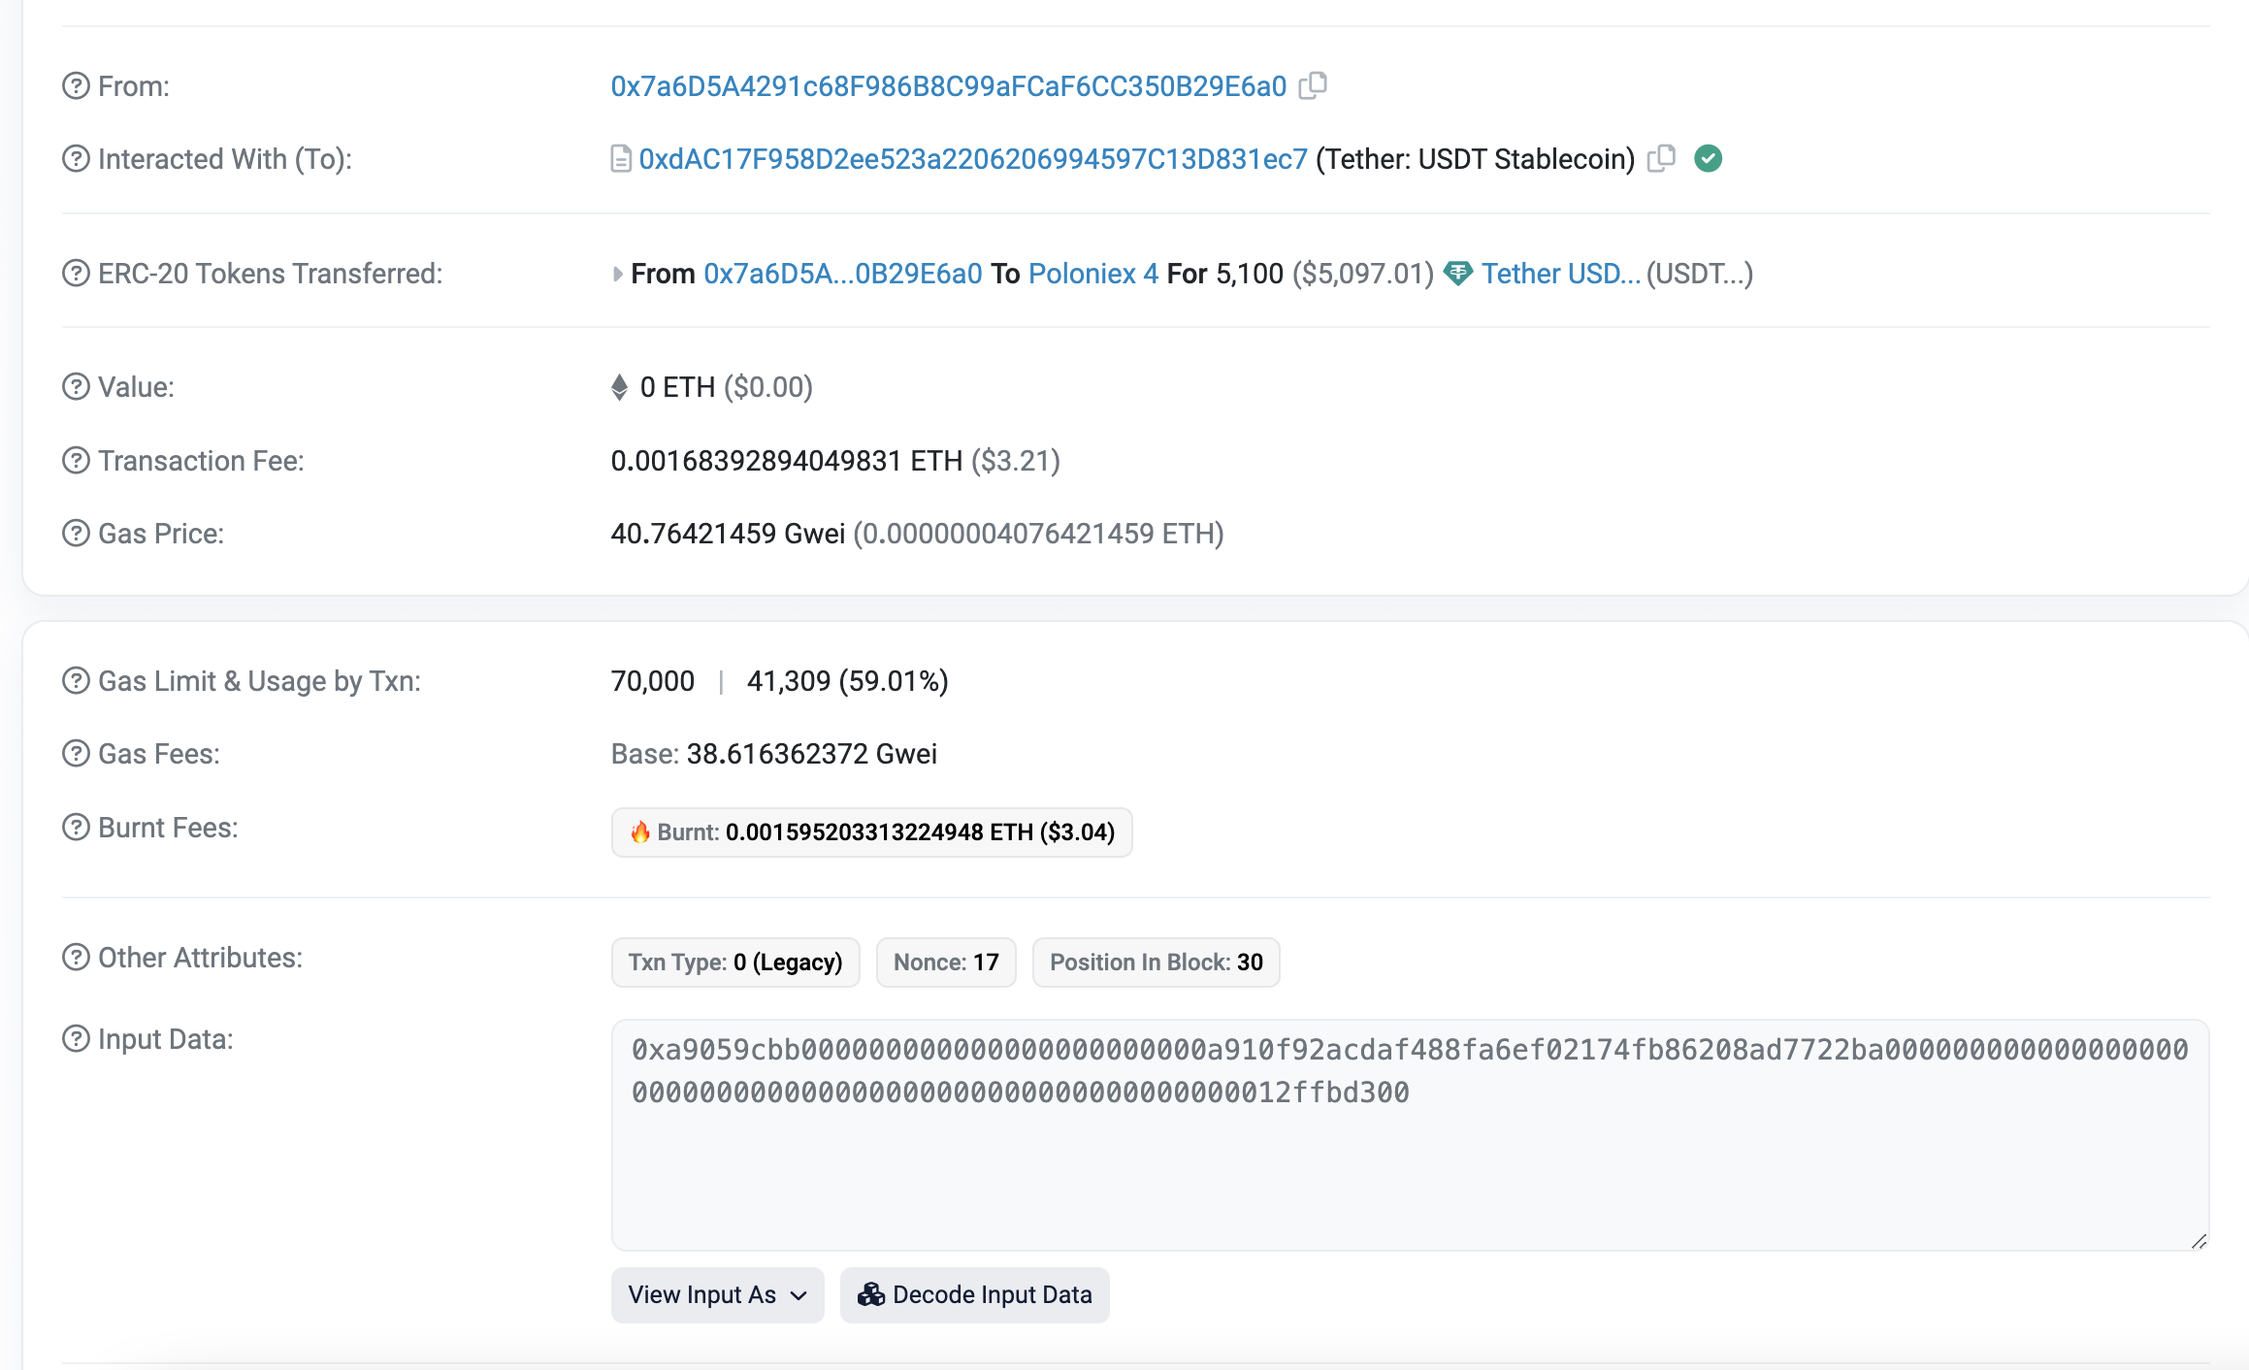
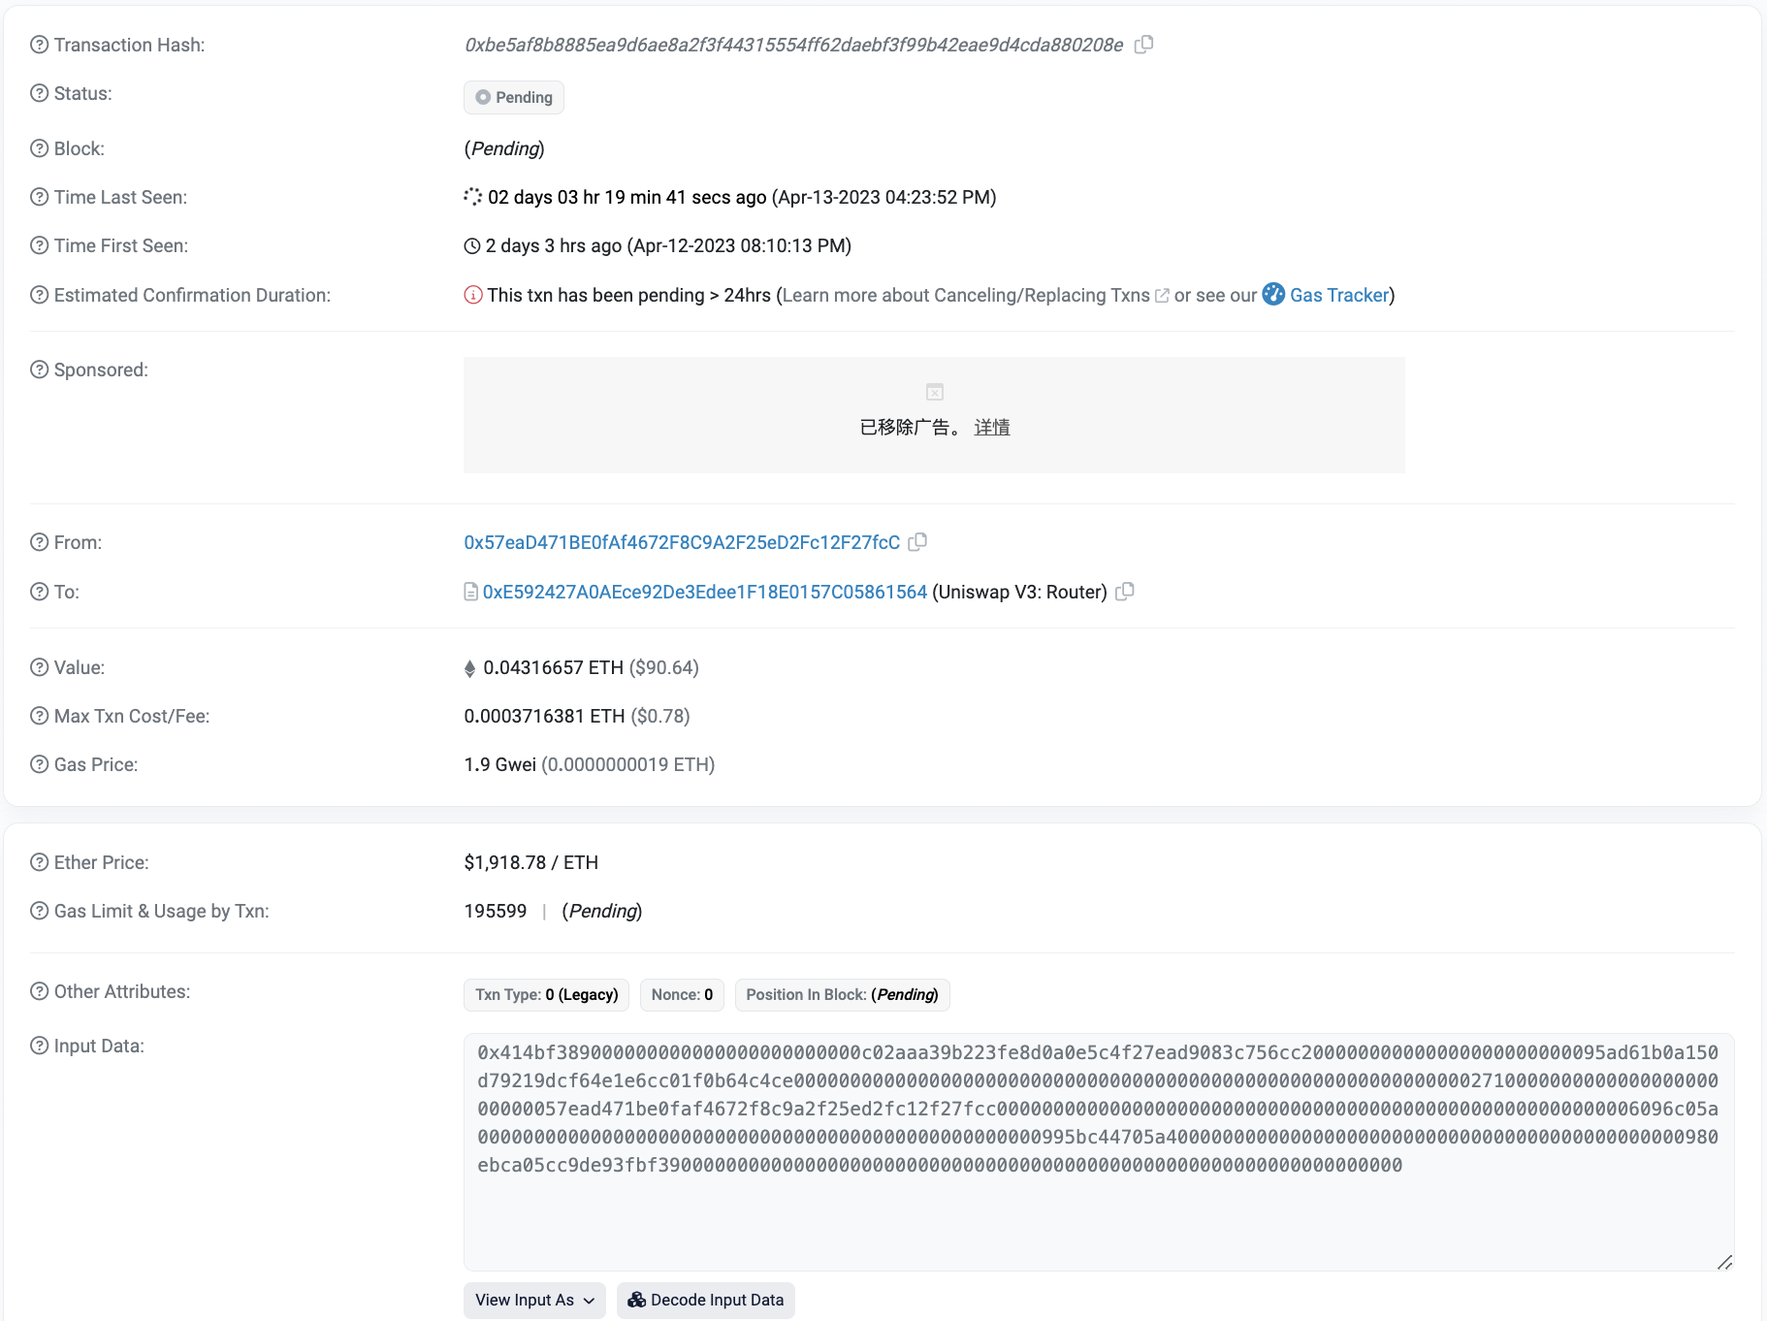
Update 20-24 ether.js

diff --git a/20_DecodeTx/DecodeTx.js b/20_DecodeTx/DecodeTx.js
@@ -28,7 +28,7 @@ function throttle(fn, delay) {
 }
 
 const main = async () => {
-    // 4. 监听pending的erc20 transfer交易，获取交易详情，然后解码。
+    // 4. 监听pending的uniswapV3交易，获取交易详情，然后解码。
     console.log("\n4. 监听pending交易，获取txHash，并输出交易详情。")
     provider.on("pending", throttle(async (txHash) => {
         if (txHash) {

diff --git a/21_VanityAddress/VanityAddress.js b/21_VanityAddress/VanityAddress.js
@@ -19,4 +19,3 @@ console.log(`\n靓号地址：${wallet.address}`)
 console.log(`靓号私钥：${wallet.privateKey}\n`)
 
 
-

diff --git a/20_DecodeTx/readme.md b/20_DecodeTx/readme.md
@@ -8,9 +8,9 @@ title: 20. 解码交易详情
 
 **推特**：[@0xAA_Science](https://twitter.com/0xAA_Science)
 
-**WTF Academy社群：** [官网 wtf.academy](https://wtf.academy) | [WTF Solidity教程](https://github.com/AmazingAng/WTFSolidity) | [discord](https://discord.gg/5akcruXrsk) | [微信群申请](https://docs.google.com/forms/d/e/1FAIpQLSe4KGT8Sh6sJ7hedQRuIYirOoZK_85miz3dw7vA1-YjodgJ-A/viewform?usp=sf_link)
+**WTF Academy社群：** [官网 wtf.academy](https://wtf.academy) | [WTF Solidity教程](https://github.com/AmazingAng/WTF-Solidity) | [discord](https://discord.gg/5akcruXrsk) | [微信群申请](https://docs.google.com/forms/d/e/1FAIpQLSe4KGT8Sh6sJ7hedQRuIYirOoZK_85miz3dw7vA1-YjodgJ-A/viewform?usp=sf_link)
 
-所有代码和教程开源在github: [github.com/WTFAcademy/WTFEthers](https://github.com/WTFAcademy/WTFEthers)
+所有代码和教程开源在github: [github.com/WTFAcademy/WTFEthers](https://github.com/WTFAcademy/WTF-Ethers)
 
 -----
 
@@ -18,28 +18,50 @@ title: 20. 解码交易详情
 
 ## 未决交易
 
-未决交易是用户发出但没被矿工打包上链的交易，在mempool（交易内存池）中出现。对于`mempool`的更多介绍可以看[WTF Ethers极简教程第19讲：监听Mempool](https://github.com/WTFAcademy/WTFEthers/blob/main/19_Mempool/readme.md)
+未决交易是用户发出但没被矿工打包上链的交易，在mempool（交易内存池）中出现。对于`mempool`的更多介绍可以看[WTF Ethers极简教程第19讲：监听Mempool](https://github.com/WTFAcademy/WTF-Ethers/blob/main/19_Mempool/readme.md)
 
-下面是一个转账`ERC20`代币的交易，你可以在[etherscan](https://etherscan.io/tx/0x694e5a2bf12caeee012455f8cd5fb760a8e3804f7f97874e00e7ba0fcd9a1609)上查看交易详情：
+下面是一个利用`Uniswap V3 Router`合约交易代币的未决交易，你可以在[etherscan](https://etherscan.io/tx/0xbe5af8b8885ea9d6ae8a2f3f44315554ff62daebf3f99b42eae9d4cda880208e)上查看交易详情：
 
-![ERC20转账交易](./img/20-1.png)
+![未决交易](./img/20-1.png)
 
 红框中是这个交易的`input data`，看似杂乱无章的十六进制数据，实际上编码了这笔交易的内容：包括调用的函数，以及输入的参数。我们在etherscan点击**Decode Input Data**按钮，就可以解码这段数据：
 
 ![Decode Input Data](./img/20-2.png)
 
-解码之后，我们可以看到这笔交易调用的函数以及输入的参数。
+解码之后，我们可以看到这笔交易调用了合约中的`exactInputSingle()`函数（`Uniswap V3`路由合约中的一个交易函数）以及输入的参数。
 
 ## Interface类
 
 `ethers.js`提供了`Interface`类方便解码交易数据。声明`Interface`类型和声明`abi`的方法差不多，例如：
 
 ```js
-const iface = ethers.Interface([
+const iface = ethers.utils.Interface([
     "function balanceOf(address) public view returns(uint)",
     "function transfer(address, uint) public returns (bool)",
     "function approve(address, uint256) public returns (bool)"
 ]);
+```
+
+如果输入参数是`solidity`的`struct`结构体类型时，我们要做特殊处理，在`javascript`中改为`tuple`元组类型。上面的`exactInputSingle()`函数的参数为`ExactInputSingleParams`结构体：
+```solidity
+    struct ExactInputSingleParams {
+        address tokenIn;
+        address tokenOut;
+        uint24 fee;
+        address recipient;
+        uint256 deadline;
+        uint256 amountIn;
+        uint256 amountOutMinimum;
+        uint160 sqrtPriceLimitX96;
+    }
+```
+
+在`js`中我们要写为：
+
+```js
+const iface = new utils.Interface([
+    "function exactInputSingle(tuple(address tokenIn, address tokenOut, uint24 fee, address recipient, uint deadline, uint amountIn, uint amountOutMinimum, uint160 sqrtPriceLimitX96) calldata) external payable returns (uint amountOut)",
+])
 ```
 
 ## 解码交易数据
@@ -49,9 +71,9 @@ const iface = ethers.Interface([
 1. 创建`provider`和`wallet`，监听交易时候推荐用`wss`连接而不是`http`。
 
     ```js
-    // 准备 alchemy API 可以参考https://github.com/AmazingAng/WTFSolidity/blob/main/Topics/Tools/TOOL04_Alchemy/readme.md 
+    // 准备 alchemy API 可以参考https://github.com/AmazingAng/WTF-Solidity/blob/main/Topics/Tools/TOOL04_Alchemy/readme.md 
     const ALCHEMY_MAINNET_WSSURL = 'wss://eth-mainnet.g.alchemy.com/v2/oKmOQKbneVkxgHZfibs-iFhIlIAl6HDN';
-    const provider = new ethers.WebSocketProvider(ALCHEMY_MAINNET_WSSURL);
+    const provider = new ethers.providers.WebSocketProvider(ALCHEMY_MAINNET_WSSURL);
     let network = provider.getNetwork()
     network.then(res => console.log(`[${(new Date).toLocaleTimeString()}] 连接到 chain ID ${res.chainId}`));
     ```
@@ -59,8 +81,8 @@ const iface = ethers.Interface([
 2. 创建`Interface`对象，用于解码交易详情。
 
     ```js
-    const iface = new ethers.Interface([
-    "function transfer(address, uint) public returns (bool)",
+    const iface = new utils.Interface([
+        "function exactInputSingle(tuple(address tokenIn, address tokenOut, uint24 fee, address recipient, uint deadline, uint amountIn, uint amountOutMinimum, uint160 sqrtPriceLimitX96) calldata) external payable returns (uint amountOut)",
     ])
     ```
 
@@ -81,7 +103,7 @@ const iface = ethers.Interface([
     }
     ```
 
-4. 监听`pending`的`ERC20` 转账交易，获取交易详情并解码：
+4. 监听`pending`的`uniswapV3`交易，获取交易详情并解码。这里只解码了通过`Uniswap V3`路由合约的`exactInputSingle()`函数的交易。网络不活跃的时候，可能需要等待几分钟才能监听到一笔。
 
     ```js
     provider.on("pending", throttle(async (txHash) => {
@@ -90,7 +112,7 @@ const iface = ethers.Interface([
             let tx = await provider.getTransaction(txHash);
             if (tx) {
                 // filter pendingTx.data
-                if (tx.data.indexOf(iface.getFunction("transfer").selector) !== -1) {
+                if (tx.data.indexOf(iface.getSighash("exactInputSingle")) !== -1) {
                     // 打印txHash
                     console.log(`\n[${(new Date).toLocaleTimeString()}] 监听Pending交易: ${txHash} \r`);
 

diff --git a/24_ERC20Check/readme.md b/24_ERC20Check/readme.md
@@ -10,7 +10,7 @@ title: 24. 识别ERC20合约
 
 WTF Academy 社群：[Discord](https://discord.gg/5akcruXrsk)｜[微信群](https://docs.google.com/forms/d/e/1FAIpQLSe4KGT8Sh6sJ7hedQRuIYirOoZK_85miz3dw7vA1-YjodgJ-A/viewform?usp=sf_link)｜[官网 wtf.academy](https://wtf.academy)
 
-所有代码和教程开源在 github: [github.com/WTFAcademy/WTFEthers](https://github.com/WTFAcademy/WTFEthers)
+所有代码和教程开源在 github: [github.com/WTFAcademy/WTFEthers](https://github.com/WTFAcademy/WTF-Ethers)
 
 ---
 
@@ -18,7 +18,7 @@ WTF Academy 社群：[Discord](https://discord.gg/5akcruXrsk)｜[微信群](http
 
 ## `ERC20`
 
-`ERC721` 是以太坊上最常用的代币标准，如果对这个标准不熟悉，可以阅读[WTF Solidity第31讲 ERC20](https://github.com/AmazingAng/WTFSolidity/blob/main/31_ERC20/readme.md)。`ERC20` 标准包含以下函数和事件:
+`ERC721` 是以太坊上最常用的代币标准，如果对这个标准不熟悉，可以阅读[WTF Solidity第31讲 ERC20](https://github.com/AmazingAng/WTF-Solidity/blob/main/31_ERC20/readme.md)。`ERC20` 标准包含以下函数和事件:
 ```solidity
 interface IERC20 {
     event Transfer(address indexed from, address indexed to, uint256 value);
@@ -40,7 +40,7 @@ interface IERC20 {
 ```
 
 ## 识别 `ERC20` 合约
-在之前的[教程](https://github.com/WTFAcademy/WTFEthers/blob/main/12_ERC721Check/readme.md)中，我们讲了如何基于 `ERC165` 识别 `ERC721` 合约。但是由于 `ERC20` 的发布早于 `ERC165`（20 < 165），因此我们没法用相同的办法识别 `ERC20` 合约，只能另找办法。
+在之前的[教程](https://github.com/WTFAcademy/WTF-Ethers/blob/main/12_ERC721Check/readme.md)中，我们讲了如何基于 `ERC165` 识别 `ERC721` 合约。但是由于 `ERC20` 的发布早于 `ERC165`（20 < 165），因此我们没法用相同的办法识别 `ERC20` 合约，只能另找办法。
 
 区块链是公开的，我们能获取任意合约地址上的代码（bytecode）。因此，我们可以先获取合约代码，然后对比其是否包含 `ERC20` 标准中的函数就可以了。
 
@@ -49,7 +49,7 @@ interface IERC20 {
 let code = await provider.getCode(contractAddress)
 ```
 
-接下来我们要检查合约 `bytecode` 是否包含 `ERC20` 标准中的函数。合约 `bytecode` 中存储了相应的[函数选择器]：如果合约包含 `transfer(address, uint256)` 函数，那么 `bytecode` 就会包含 `a9059cbb`；如果合约包含 `balanceOf(address)`，那么 `bytecode` 就会包含 `18160ddd`。如果你不了解函数选择器，可以阅读 WTF Solidity的[相应章节](https://github.com/AmazingAng/WTFSolidity/blob/main/29_Selector/readme.md)。如果想更深入的了解 `bytecode`，可以阅读[深入EVM](https://github.com/AmazingAng/WTFSolidity/blob/main/Topics/Translation/DiveEVM2017)。
+接下来我们要检查合约 `bytecode` 是否包含 `ERC20` 标准中的函数。合约 `bytecode` 中存储了相应的[函数选择器]：如果合约包含 `transfer(address, uint256)` 函数，那么 `bytecode` 就会包含 `a9059cbb`；如果合约包含 `balanceOf(address)`，那么 `bytecode` 就会包含 `18160ddd`。如果你不了解函数选择器，可以阅读 WTF Solidity的[相应章节](https://github.com/AmazingAng/WTF-Solidity/blob/main/29_Selector/readme.md)。如果想更深入的了解 `bytecode`，可以阅读[深入EVM](https://github.com/AmazingAng/WTFSolidity/blob/main/Topics/Translation/DiveEVM2017)。
 
 这里，我们仅需检测  `transfer(address, uint256)` 和 `balanceOf(address)` 两个函数，而不用检查全部6个，这是因为：
 1. `ERC20`标准中只有 `transfer(address, uint256)` 不包含在 `ERC721`标准、`ERC1155`和`ERC777`标准中。因此如果一个合约包含 `transfer(address, uint256)` 的选择器，就能确定它是 `ERC20` 代币合约，而不是其他。
@@ -101,7 +101,7 @@ main()
 
 输出如下：
 
-![](./ERC20Checker.js)
+![](./img/24-1.png)
 
 脚本成功检测出 `DAI` 合约是 `ERC20` 合约，而 `BAYC` 合约不是 `ERC20` 合约。
 

diff --git a/23_Frontrun/readme.md b/23_Frontrun/readme.md
@@ -10,11 +10,11 @@ title: 23. 抢先交易脚本
 
 WTF Academy 社群：[Discord](https://discord.gg/5akcruXrsk)｜[微信群](https://docs.google.com/forms/d/e/1FAIpQLSe4KGT8Sh6sJ7hedQRuIYirOoZK_85miz3dw7vA1-YjodgJ-A/viewform?usp=sf_link)｜[官网 wtf.academy](https://wtf.academy)
 
-所有代码和教程开源在 github: [github.com/WTFAcademy/WTFEthers](https://github.com/WTFAcademy/WTFEthers)
+所有代码和教程开源在 github: [github.com/WTFAcademy/WTFEthers](https://github.com/WTFAcademy/WTF-Ethers)
 
 ---
 
-这一讲，我们将介抢先交易（Front-running，抢跑）的脚本。据统计，以太坊上的套利者通过三明治攻击（sandwich attack）[共获利12亿美元](https://dune.com/chorus_one/ethereum-mev-data)。在学习之前，请先阅读[WTF Solidity教程 合约安全S11: 抢先交易](https://github.com/AmazingAng/WTFSolidity/blob/main/S11_Frontrun/readme.md)。
+这一讲，我们将介绍抢先交易（Front-running，抢跑）的脚本。据统计，以太坊上的套利者通过三明治攻击（sandwich attack）[共获利12亿美元](https://dune.com/chorus_one/ethereum-mev-data)。在学习之前，请先阅读[WTF Solidity教程 合约安全S11: 抢先交易](https://github.com/AmazingAng/WTFSolidity/blob/main/S11_Frontrun/readme.md)。
 
 ![](./img/23-1.png)
 
@@ -43,13 +43,7 @@ contract FreeMint is ERC721 {
 }
 ```
 
-为了简化测试环境，我们将上述合约部署在foundry本地测试网，然后监听在`mempool`中的未决交易，筛选出符合标准的交易进行抢跑。
-
-如果你不了解 `foundry`，可以阅读WTF Solidity中的[Foundry教程](https://github.com/AmazingAng/WTF-Solidity/blob/main/Topics/Tools/TOOL07_Foundry/readme.md)。安装好 foundry 后，在命令行输入以下命令就可以启动本地测试网:
-
-```shell
-anvil
-```
+我们将上述合约部署在foundry本地测试网，然后监听在`mempool`中的未决交易，筛选出符合标准的交易进行抢跑。
 
 ## 抢跑脚本
 
@@ -57,11 +51,11 @@ anvil
 
 1. 创建连接到foundry本地测试网的`provider`对象，用于监听和发送交易。foundry本地测试网默认url：`"http://127.0.0.1:8545"`。
     ```js
-    import { ethers } from "ethers";
+    import { ethers, utils } from "ethers";
 
     // 1. 创建provider
     var url = "http://127.0.0.1:8545";
-    const provider = new ethers.WebSocketProvider(url);
+    const provider = new ethers.providers.WebSocketProvider(url);
     let network = provider.getNetwork()
     network.then(res => console.log(`[${(new Date).toLocaleTimeString()}] 连接到 chain ID ${res.chainId}`));
     ```
@@ -69,7 +63,7 @@ anvil
 2. 创建一个包含我们感兴趣的`mint()`函数的`interface`对象，用于解码交易。如果你不了解它，可以阅读[WTF Ethers极简教程第20讲：解码交易](https://github.com/WTFAcademy/WTFEthers/blob/main/20_DecodeTx/readme.md)。
     ```js
     // 2. 创建interface对象，用于解码交易详情。
-    const iface = new ethers.Interface([
+    const iface = new utils.Interface([
         "function mint() external",
     ])
     ```
@@ -91,7 +85,7 @@ anvil
             let tx = await provider.getTransaction(txHash);
             if (tx) {
                 // filter pendingTx.data
-                if (tx.data.indexOf(iface.getFunction("mint").selector) !== -1 && tx.from != wallet.address ) {
+                if (tx.data.indexOf(iface.getSighash("mint")) !== -1 && tx.from != wallet.address ) {
                     // 打印txHash
                     console.log(`\n[${(new Date).toLocaleTimeString()}] 监听Pending交易: ${txHash} \r`);
     ```
@@ -123,8 +117,8 @@ anvil
     const txFrontrun = {
         to: tx.to,
         value: tx.value,
-        maxPriorityFeePerGas: tx.maxPriorityFeePerGas * 2n,
-        maxFeePerGas: tx.maxFeePerGas * 2n,
+        maxPriorityFeePerGas: tx.maxPriorityFeePerGas * 1.2,
+        maxFeePerGas: tx.maxFeePerGas * 1.2,
         gasLimit: tx.gasLimit * 2,
         data: tx.data
     }

diff --git a/22_ReadAnyData/readme.md b/22_ReadAnyData/readme.md
@@ -10,7 +10,7 @@ title: 22. 读取任意数据
 
 WTF Academy 社群：[Discord](https://discord.gg/5akcruXrsk)｜[微信群](https://docs.google.com/forms/d/e/1FAIpQLSe4KGT8Sh6sJ7hedQRuIYirOoZK_85miz3dw7vA1-YjodgJ-A/viewform?usp=sf_link)｜[官网 wtf.academy](https://wtf.academy)
 
-所有代码和教程开源在 github: [github.com/WTFAcademy/WTFEthers](https://github.com/WTFAcademy/WTFEthers)
+所有代码和教程开源在 github: [github.com/WTFAcademy/WTFEthers](https://github.com/WTFAcademy/WTF-Ethers)
 
 ---
 
@@ -54,7 +54,7 @@ import { ethers } from "ethers";
 
 //准备 alchemy API 可以参考https://github.com/AmazingAng/WTFSolidity/blob/main/Topics/Tools/TOOL04_Alchemy/readme.md 
 const ALCHEMY_MAINNET_URL = 'https://eth-mainnet.g.alchemy.com/v2/oKmOQKbneVkxgHZfibs-iFhIlIAl6HDN';
-const provider = new ethers.JsonRpcProvider(ALCHEMY_MAINNET_URL);
+const provider = new ethers.providers.JsonRpcProvider(ALCHEMY_MAINNET_URL);
 
 // 目标合约地址: Arbitrum ERC20 bridge（主网）
 const addressBridge = '0x8315177aB297bA92A06054cE80a67Ed4DBd7ed3a' // DAI Contract
@@ -63,8 +63,8 @@ const slot = `0xb53127684a568b3173ae13b9f8a6016e243e63b6e8ee1178d6a717850b5d6103
 
 const main = async () => {
     console.log("开始读取特定slot的数据")
-    const privateData = await provider.getStorage(addressBridge, slot)
-    console.log("读出的数据（owner地址）: ", ethers.getAddress(ethers.dataSlice(privateData, 12)))
+    const privateData = await provider.getStorageAt(addressBridge, slot)
+    console.log("读出的数据（owner地址）: ", ethers.utils.getAddress(ethers.utils.hexDataSlice(privateData, 12)))
 }
 
 main()

diff --git a/21_VanityAddress/readme.md b/21_VanityAddress/readme.md
@@ -10,7 +10,7 @@ title: 21. 靓号生成器
 
 **WTF Academy社群：** [官网 wtf.academy](https://wtf.academy) | [WTF Solidity教程](https://github.com/AmazingAng/WTFSolidity) | [discord](https://discord.gg/5akcruXrsk) | [微信群申请](https://docs.google.com/forms/d/e/1FAIpQLSe4KGT8Sh6sJ7hedQRuIYirOoZK_85miz3dw7vA1-YjodgJ-A/viewform?usp=sf_link)
 
-所有代码和教程开源在github: [github.com/WTFAcademy/WTFEthers](https://github.com/WTFAcademy/WTFEthers)
+所有代码和教程开源在github: [github.com/WTFAcademy/WTFEthers](https://github.com/WTFAcademy/WTF-Ethers)
 
 -----
 
